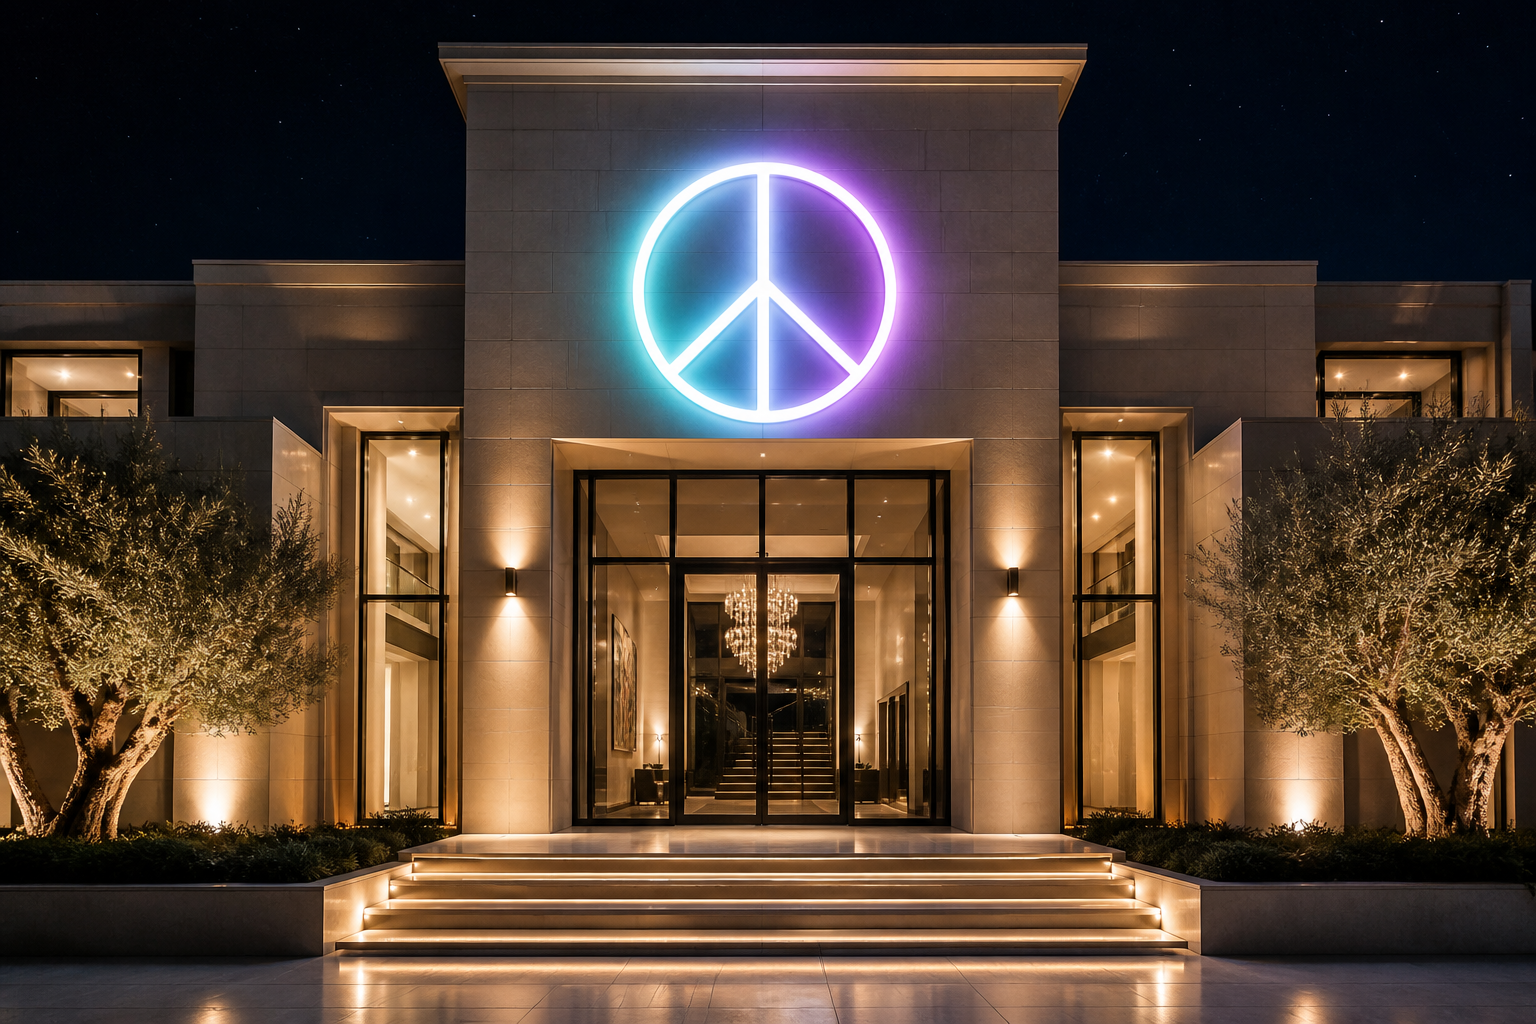
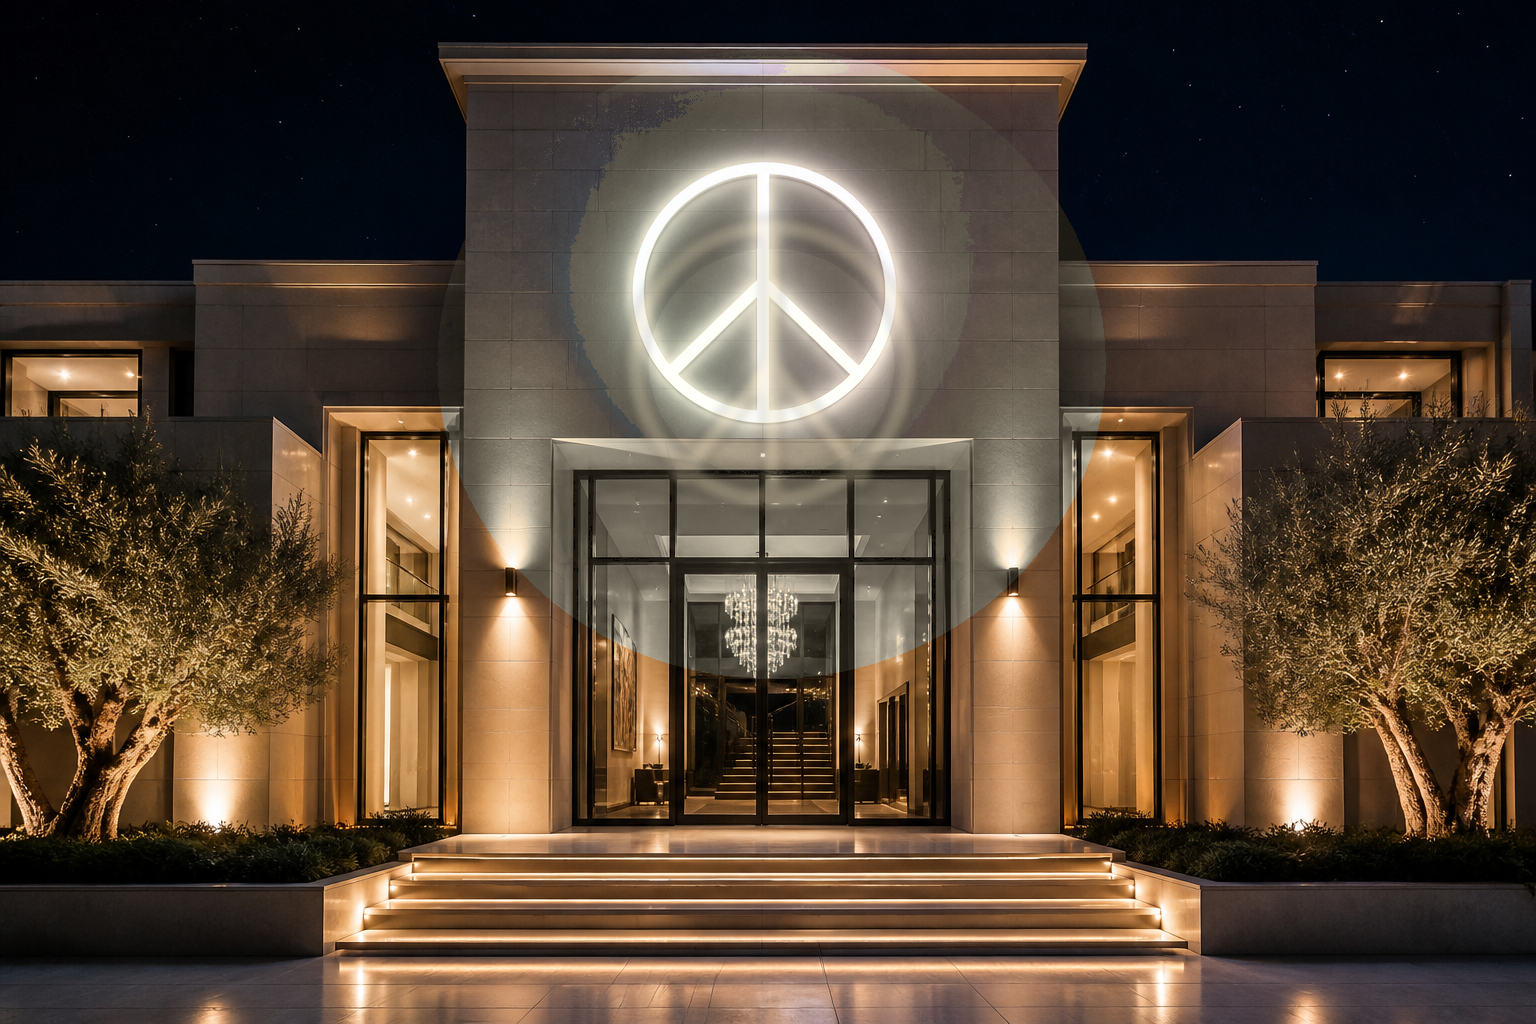
Splash: wider premium spectrum + strong zoom-out
Warm-anchored wide slider stops; back out hero photo markedly; SW bps-v5-wide; keep frameless on-wall tint, no cool halo ring in asset pass.

Changed region(s): [[0.2812, 0.0312, 0.7188, 0.6875], [0.6875, 0.2188, 0.7188, 0.2812]]

diff --git a/pwa-app/src/app/globals.css b/pwa-app/src/app/globals.css
@@ -774,11 +774,15 @@ input {
   position: absolute;
   inset: 0;
   z-index: 0;
+  background: #07080f; /* night sky when zoomed out */
 }
 
 .estate-hero__img {
-  object-fit: cover;
-  object-position: center 32%;
+  /* Back out MUCH more — house reads smaller in frame, more estate/sky around it */
+  object-fit: contain;
+  object-position: center center;
+  transform: scale(0.62);
+  transform-origin: center 42%;
 }
 
 .estate-hero__veil {
@@ -800,17 +804,20 @@ input {
 .estate-hero__facade-tint {
   position: absolute;
   left: 50%;
-  top: 27%;
-  transform: translate(-50%, -50%);
-  width: clamp(96px, 18vw, 168px);
-  height: clamp(96px, 18vw, 168px);
+  /* With object-fit:contain, sign sits nearer vertical center of the full frame */
+  top: 40%;
+  transform: translate(-50%, -50%) scale(0.62);
+  transform-origin: center center;
+  width: clamp(72px, 12vw, 128px);
+  height: clamp(72px, 12vw, 128px);
   border-radius: 50%;
   z-index: 1;
   pointer-events: none;
   mix-blend-mode: color;
-  opacity: 0.92;
-  -webkit-mask-image: radial-gradient(circle, #000 32%, rgba(0, 0, 0, 0.55) 52%, transparent 74%);
-  mask-image: radial-gradient(circle, #000 32%, rgba(0, 0, 0, 0.55) 52%, transparent 74%);
+  opacity: 0.88;
+  /* Tight mask — tint the mark only, no outer decorative ring */
+  -webkit-mask-image: radial-gradient(circle, #000 40%, rgba(0, 0, 0, 0.45) 58%, transparent 72%);
+  mask-image: radial-gradient(circle, #000 40%, rgba(0, 0, 0, 0.45) 58%, transparent 72%);
 }
 
 .estate-hero__content {
@@ -958,9 +965,9 @@ input {
     min-height: min(88dvh, 820px);
   }
   .estate-hero__facade-tint {
-    top: 28%;
-    width: clamp(110px, 16vw, 188px);
-    height: clamp(110px, 16vw, 188px);
+    top: 40%;
+    width: clamp(88px, 11vw, 140px);
+    height: clamp(88px, 11vw, 140px);
   }
   .estate-hero__content {
     max-width: 400px;
@@ -987,12 +994,12 @@ input {
     min-height: min(82dvh, 700px);
   }
   .estate-hero__img {
-    object-position: center 28%;
+    object-position: center center;
   }
   .estate-hero__facade-tint {
-    top: 25%;
-    width: clamp(88px, 19vw, 140px);
-    height: clamp(88px, 19vw, 140px);
+    top: 41%;
+    width: clamp(68px, 14vw, 110px);
+    height: clamp(68px, 14vw, 110px);
   }
   .btn-primary,
   .preorder-form button,

diff --git a/pwa-app/src/components/ColorSlider.tsx b/pwa-app/src/components/ColorSlider.tsx
@@ -22,21 +22,23 @@ export type ColorSliderProps = {
   showLabel?: boolean;
 };
 
-/** Curated premium estate glow stops — not a harsh primary rainbow. */
+/** Wide premium estate spectrum — tasteful jewels + warm anchors (not harsh neon-ring). */
 export const PREMIUM_GLOW_STOPS = [
-  "#F7F1E4", // warm white
-  "#F6EBD1", // soft warm white
+  "#FFF8F0", // warm porcelain
+  "#F6EBD1", // warm white
   "#EAD7B2", // champagne
-  "#D4B896", // amber champagne
-  "#C9A27A", // rose gold
-  "#E8B4A2", // soft blush
-  "#D4A0C0", // rose jewel
-  "#B47CFF", // dusk violet
-  "#8B7CFF", // soft indigo
-  "#4AA3FF", // sapphire
-  "#3DD6C6", // soft teal neon
-  "#7DDEA2", // soft jewel green
-  "#EAD7B2", // ease back toward champagne
+  "#E0C49A", // soft gold
+  "#D4B896", // amber
+  "#E8A87C", // warm apricot
+  "#E8B4A0", // soft rose
+  "#D4899C", // dusty rose
+  "#C9A0D4", // soft orchid (muted)
+  "#A89BE0", // soft periwinkle
+  "#7FA8D4", // soft sapphire
+  "#6BBFBF", // soft aqua (tasteful, not neon)
+  "#7DCEA0", // soft emerald
+  "#B8C97A", // soft olive gold
+  "#EAD7B2", // return to champagne
 ] as const;
 
 const PREMIUM_GRADIENT = `linear-gradient(90deg, ${PREMIUM_GLOW_STOPS.map(

diff --git a/pwa-app/public/sw.js b/pwa-app/public/sw.js
@@ -1,5 +1,5 @@
-/* BuyPeaceSign PWA — network-first shell (bps-v3-estate) */
-const CACHE = "bps-v3-estate";
+/* BuyPeaceSign PWA — network-first shell (bps-v5-wide) */
+const CACHE = "bps-v5-wide";
 const PRECACHE = [
   "/manifest.webmanifest",
   "/icons/icon-192.png",
